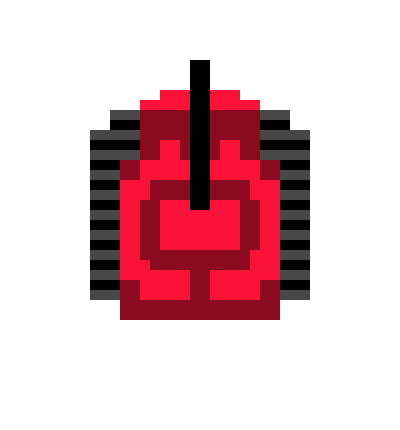
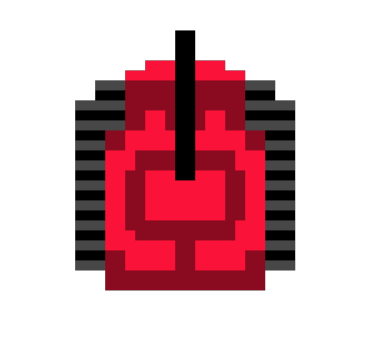
added state

Changed region(s): [[0.1865, 0.0877, 0.7772, 0.848]]

diff --git a/src/containers/GameBoard/GameBoard.js b/src/containers/GameBoard/GameBoard.js
@@ -1,14 +1,37 @@
 import React, {Component} from 'react';
 import Login from '../../containers/Login/Login';
+import tank from '../../assets/images/tank.png'
 
 import './GameBoard.css';
 
 class GameBoard extends Component {
   state = {
-    loggedIn: true
+    loggedIn: true,
+    gameState: 'PAUSE',
+    score: 0,
+    enermies: [1, 1, 1, 1, 1],
+    killed: 0,
+    grid: [
+      [null, null, null, null, null, null, null, null, null, null, null, null],
+      [null, null, null, null, null, null, null, null, null, null, null, null],
+      [null, null, null, null, null, null, null, null, null, null, null, null],
+      [null, null, null, null, null, null, null, null, null, null, null, null],
+      [null, null, null, null, null, null, null, null, null, null, null, null],
+      [null, null, null, null, null, null, null, null, null, null, null, null],
+      [null, null, null, null, null, null, null, null, null, null, null, null],
+      [null, null, null, null, null, null, null, null, null, null, null, null],
+      [null, null, null, null, null, null, null, null, null, null, null, null],
+      [null, null, null, null, null, null, null, null, null, null, null, null]
+    ],
+    tankPosition: {
+      x: 0,
+      y: 0
+    },
   }
   render () {
-    return this.state.loggedIn? (<div className='GameBoard'>hello</div>) : <Login />
+    const image = (<img src={tank} alt='tank' height='50' width='50'/>)
+    
+    return this.state.loggedIn? (<div className='GameBoard'>{image}</div>) : <Login />
   }
 }
 

diff --git a/src/containers/GameBoard/GameBoard.css b/src/containers/GameBoard/GameBoard.css
@@ -1,7 +1,7 @@
 .GameBoard {
   height: 500px;
   border: 1px dashed white;
-  flex: 3 0px;
+  flex: 0 1 600px;
   order: 2;
   color: white;
 }

diff --git a/src/hoc/Layout/Layout.css b/src/hoc/Layout/Layout.css
@@ -2,5 +2,5 @@
     display: flex;
     flex-flow: row wrap;
     background: black;
-    padding: 2em;
+    padding: 1em;
 }

diff --git a/src/components/Stats/Stats.css b/src/components/Stats/Stats.css
@@ -5,4 +5,5 @@
   border: 1px dashed white;
   margin-left:10px;
   color: white;
+  flex: 3 1 100px;
 }

diff --git a/src/components/LeaderBoard/LeaderBoard.css b/src/components/LeaderBoard/LeaderBoard.css
@@ -5,4 +5,5 @@
   order: 1;
   margin-right: 10px;
   color: white;
+  flex: 3 1 100px;
 }
